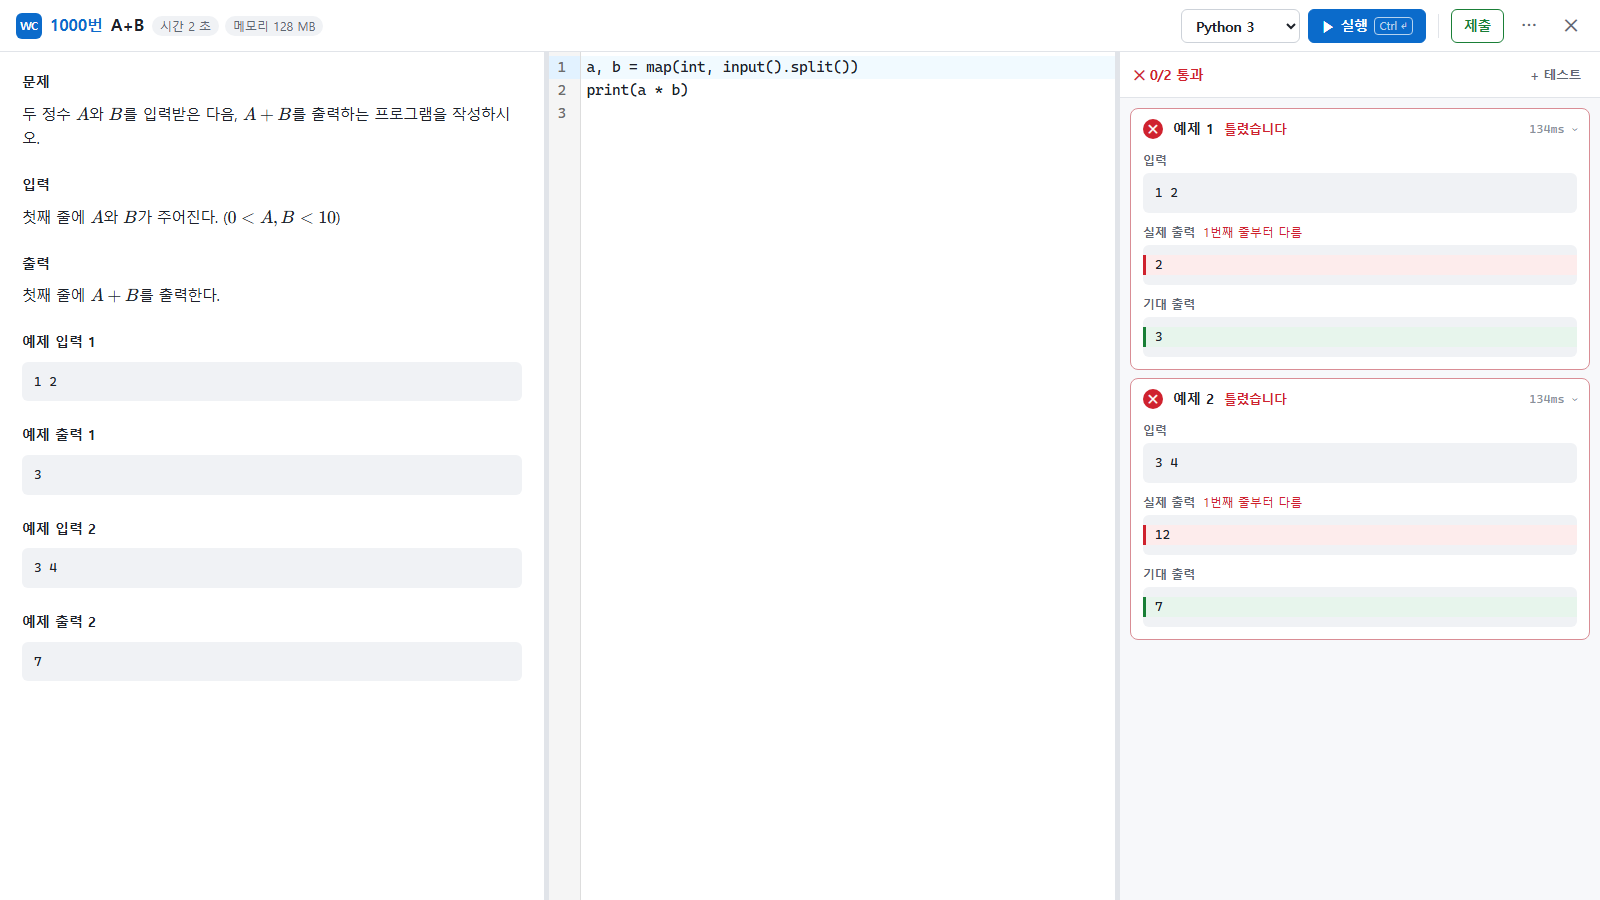
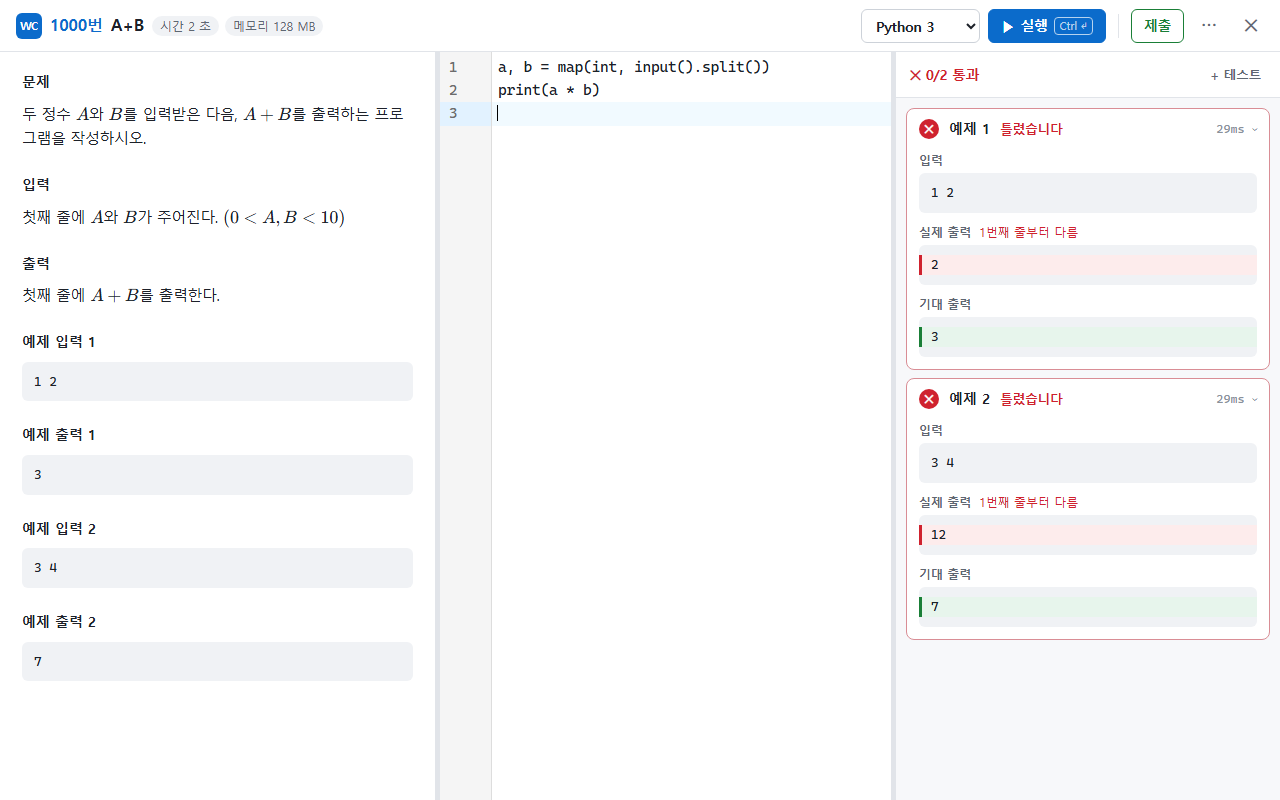
build: 웹 스토어 배포 준비 (clang 리소스 gzip, 패키지 스크립트, 등록 자료)
- 큰 컴파일러 리소스(llvm.core.wasm, llvm-resources.tar, 예외 지원 libc++)를
  gzip으로 담고 컴파일 워커가 풀어 씀. 설치 용량 137MB → 57MB,
  첫 컴파일 워커 시작이 약 80ms 늘어남
- npm run package: dist를 release/web-coder-<버전>.zip으로 묶음 (외부 도구 없음)
- docs/store: 개인정보처리방침, 등록 문구와 권한 사유, 1280×800 스크린샷
- README 스크린샷 일부를 현재 UI로 교체
- TS 기본 lib에 없는 WebAssembly.Exception 타입 선언 추가 (typecheck 오류 수정)

diff --git a/tools/package.ts b/tools/package.ts
@@ -1,0 +1,82 @@
+// 웹 스토어에 올릴 zip을 만듭니다. `npm run package` (빌드 후 release/web-coder-<버전>.zip)
+// 외부 도구 없이 동작하도록 zip(deflate)을 직접 씁니다. 파일은 모두 4GB보다 작아 ZIP64는 필요 없습니다.
+import { mkdir, readFile, readdir, writeFile } from 'node:fs/promises';
+import { crc32, deflateRawSync } from 'node:zlib';
+
+const root = 'dist';
+const { version } = JSON.parse(await readFile(`${root}/manifest.json`, 'utf8')) as {
+    version: string;
+};
+
+const listFiles = async (dir: string): Promise<string[]> => {
+    const entries = await readdir(dir, { withFileTypes: true });
+    const files = await Promise.all(
+        entries.map((entry) => {
+            const path = `${dir}/${entry.name}`;
+            return entry.isDirectory() ? listFiles(path) : [path];
+        })
+    );
+    return files.flat().sort();
+};
+
+// 이미 압축된 파일은 다시 압축하지 않고 그대로 담습니다.
+const STORED = /\.(gz|png|jpe?g|woff2?)$/;
+// 1980-01-01 00:00 (DOS 시간). 빌드할 때마다 같은 zip이 나오도록 고정합니다.
+const DOS_TIME = 0;
+const DOS_DATE = (0 << 9) | (1 << 5) | 1;
+
+const local: Buffer[] = [];
+const central: Buffer[] = [];
+let offset = 0;
+const files = await listFiles(root);
+for (const path of files) {
+    const name = Buffer.from(path.slice(root.length + 1), 'utf8');
+    const data = await readFile(path);
+    const store = STORED.test(path);
+    const body = store ? data : deflateRawSync(data, { level: 9 });
+    const crc = crc32(data);
+
+    const header = Buffer.alloc(30);
+    header.writeUInt32LE(0x04034b50, 0);
+    header.writeUInt16LE(20, 4); // 필요한 버전
+    header.writeUInt16LE(0x0800, 6); // 파일 이름은 UTF-8
+    header.writeUInt16LE(store ? 0 : 8, 8);
+    header.writeUInt16LE(DOS_TIME, 10);
+    header.writeUInt16LE(DOS_DATE, 12);
+    header.writeUInt32LE(crc, 14);
+    header.writeUInt32LE(body.length, 18);
+    header.writeUInt32LE(data.length, 22);
+    header.writeUInt16LE(name.length, 26);
+    local.push(header, name, body);
+
+    const entry = Buffer.alloc(46);
+    entry.writeUInt32LE(0x02014b50, 0);
+    entry.writeUInt16LE(20, 4);
+    entry.writeUInt16LE(20, 6);
+    entry.writeUInt16LE(0x0800, 8);
+    entry.writeUInt16LE(store ? 0 : 8, 10);
+    entry.writeUInt16LE(DOS_TIME, 12);
+    entry.writeUInt16LE(DOS_DATE, 14);
+    entry.writeUInt32LE(crc, 16);
+    entry.writeUInt32LE(body.length, 20);
+    entry.writeUInt32LE(data.length, 24);
+    entry.writeUInt16LE(name.length, 28);
+    entry.writeUInt32LE(offset, 42);
+    central.push(entry, name);
+
+    offset += header.length + name.length + body.length;
+}
+
+const centralSize = central.reduce((sum, b) => sum + b.length, 0);
+const end = Buffer.alloc(22);
+end.writeUInt32LE(0x06054b50, 0);
+end.writeUInt16LE(files.length, 8);
+end.writeUInt16LE(files.length, 10);
+end.writeUInt32LE(centralSize, 12);
+end.writeUInt32LE(offset, 16);
+
+await mkdir('release', { recursive: true });
+const out = `release/web-coder-${version}.zip`;
+const zip = Buffer.concat([...local, ...central, end]);
+await writeFile(out, zip);
+console.log(`${out} (${files.length}개 파일, ${(zip.length / 1024 / 1024).toFixed(1)}MB)`);

diff --git a/build.ts b/build.ts
@@ -1,6 +1,9 @@
 // 확장 빌드 스크립트. `node build.ts` (Node 내장 TS 실행)로 돌립니다.
 import * as esbuild from 'esbuild';
+import { createReadStream, createWriteStream } from 'node:fs';
 import { cp, mkdir, readFile, readdir, rm, writeFile } from 'node:fs/promises';
+import { pipeline } from 'node:stream/promises';
+import { createGzip } from 'node:zlib';
 
 const watch = process.argv.includes('--watch');
 const outdir = 'dist';
@@ -10,6 +13,14 @@ const clangPkg = JSON.parse(await readFile('node_modules/@yowasp/clang/package.j
     version: string;
 };
 const YOWASP_GEN = 'node_modules/@yowasp/clang/gen';
+
+/** 설치 용량을 줄이려고 gzip으로 담는 큰 리소스 (dist 기준 경로). 컴파일 워커의 gz-fetch.ts가 풀어 씁니다. */
+const GZIP_ASSETS = [
+    'clang/llvm.core.wasm',
+    'clang/llvm-resources.tar',
+    'clang-eh/libc++.a',
+    'clang-eh/libc++abi.a',
+];
 
 const manifest = {
     manifest_version: 3,
@@ -117,7 +128,10 @@ const entries: esbuild.BuildOptions[] = [
         // YoWASP 번들은 import.meta.url 기준으로 리소스를 찾으므로 ESM 모듈 워커로 dist/clang/에 둡니다.
         entryPoints: { 'clang/compiler-worker': 'src/runner/compiler-worker.ts' },
         format: 'esm',
-        define: { COMPILER_VERSION: JSON.stringify(clangPkg.version) },
+        define: {
+            COMPILER_VERSION: JSON.stringify(clangPkg.version),
+            GZIP_ASSETS: JSON.stringify(GZIP_ASSETS),
+        },
     },
     {
         // node.js 인텔리센스: TypeScript 언어 서비스. Node 전용 분기의 require는 브라우저에서 실행되지 않습니다.
@@ -174,6 +188,19 @@ const buildJavaIndexFile = async () => {
     await writeFile(`${outdir}/intel/java-index.json`, JSON.stringify(buildJavaIndex(entries)));
 };
 
+const gzipAssets = () =>
+    Promise.all(
+        GZIP_ASSETS.map(async (path) => {
+            const file = `${outdir}/${path}`;
+            await pipeline(
+                createReadStream(file),
+                createGzip({ level: 9 }),
+                createWriteStream(`${file}.gz`)
+            );
+            await rm(file);
+        })
+    );
+
 const copyStatic = async () => {
     await mkdir(`${outdir}/wasm`, { recursive: true });
     await cp('public', outdir, { recursive: true });
@@ -193,7 +220,7 @@ const copyStatic = async () => {
         'node_modules/@typefox/pyright-browser/dist/pyright.worker.js.LICENSE.txt',
         `${outdir}/intel/pyright.worker.js.LICENSE.txt`
     );
-    await Promise.all([buildTsLibs(), buildTypeshed(), buildJavaIndexFile()]);
+    await Promise.all([buildTsLibs(), buildTypeshed(), buildJavaIndexFile(), gzipAssets()]);
     await writeFile(`${outdir}/manifest.json`, JSON.stringify(manifest, null, 2));
 };
 

diff --git a/src/runner/gz-fetch.ts b/src/runner/gz-fetch.ts
@@ -1,0 +1,20 @@
+// 큰 컴파일러 리소스는 설치 용량을 줄이려고 gzip으로 담습니다. (build.ts의 GZIP_ASSETS)
+// YoWASP 번들은 불러올 때 globalThis.fetch를 붙잡아 두므로, 이 모듈을 YoWASP보다 먼저 import해야 합니다.
+// 원래 이름으로 요청하면 .gz를 받아 풀어서 돌려줍니다. (첫 실행에 약 80ms 더 걸림)
+
+declare const GZIP_ASSETS: string[];
+
+const gzipped = new Set(GZIP_ASSETS.map((path) => new URL(`/${path}`, self.location.origin).href));
+const originalFetch = globalThis.fetch.bind(globalThis);
+
+globalThis.fetch = async (input: RequestInfo | URL, init?: RequestInit) => {
+    const url = input instanceof Request ? input.url : new URL(input, self.location.href).href;
+    if (!gzipped.has(url)) return originalFetch(input, init);
+    const response = await originalFetch(`${url}.gz`, init);
+    if (!response.ok || !response.body) return response;
+    return new Response(response.body.pipeThrough(new DecompressionStream('gzip')), {
+        headers: {
+            'content-type': url.endsWith('.wasm') ? 'application/wasm' : 'application/octet-stream',
+        },
+    });
+};

diff --git a/src/env.d.ts b/src/env.d.ts
@@ -11,3 +11,16 @@ declare module 'worker-source:*' {
     const source: string;
     export default source;
 }
+
+// WebAssembly 예외 처리(wasm-eh) 타입: TS 기본 lib에 아직 없습니다.
+declare namespace WebAssembly {
+    class Tag {
+        constructor(type: { parameters: string[] });
+    }
+    class Exception {
+        constructor(tag: Tag, payload: unknown[], options?: { traceStack?: boolean });
+        is(tag: Tag): boolean;
+        getArg(tag: Tag, index: number): unknown;
+        readonly stack?: string;
+    }
+}

diff --git a/src/runner/compiler-worker.ts b/src/runner/compiler-worker.ts
@@ -1,5 +1,6 @@
 // C++ 컴파일 워커 (모듈 워커). YoWASP clang(LLVM 22)으로 wasm32-wasip1 프로그램을 만듭니다.
 // 이 파일은 dist/clang/에 번들되고, YoWASP 리소스(llvm.core.wasm 등)도 같은 폴더에 둡니다.
+import './gz-fetch.ts'; // YoWASP보다 먼저 와야 합니다.
 import { commands } from '@yowasp/clang';
 import {
     BITS_STDCXX,

diff --git a/docs/store/listing.md b/docs/store/listing.md
@@ -1,0 +1,64 @@
+# Chrome 웹 스토어 등록 자료
+
+## 패키지
+
+```powershell
+npm run package
+```
+
+`node build.ts`로 빌드한 뒤 `release/web-coder-<버전>.zip`을 만듭니다. 이 zip을 개발자 대시보드에 올립니다.
+설치 후 용량은 약 57MB입니다. 큰 컴파일러 파일은 gzip으로 담고, 처음 컴파일할 때 풀어 씁니다.
+
+## 기본 정보
+
+- 이름: 웹 코더
+- 요약 (132자 이하): 백준 제출 페이지에서 바로 실행하고 제출하는 로컬 코드 에디터
+- 카테고리: 개발자 도구
+- 언어: 한국어
+
+## 상세 설명
+
+백준 온라인 저지(acmicpc.net)에서 문제를 보면서 코드를 쓰고, 예제를 바로 돌려 보고, 그대로 제출하세요.
+
+■ 내 컴퓨터에서 바로 실행
+
+- C++ (clang, C++98~C++26), Python 3 / PyPy3, node.js, Java를 브라우저 안에서 컴파일하고 실행합니다.
+- 서버로 코드를 보내지 않으니 빠르고, 코드가 밖으로 나가지 않습니다.
+- 예제 입출력을 자동으로 불러와 한 번에 채점하고, 틀린 줄을 표시해 줍니다.
+- 직접 만든 테스트 케이스를 추가할 수 있습니다.
+
+■ 언어별 자동 완성과 오류 표시
+
+- C++: clang 기반 멤버 자동 완성과 실시간 컴파일 오류
+- Python: Pyright 기반 자동 완성, 타입 오류, 오타 표시
+- node.js: TypeScript 언어 서비스 기반 자동 완성
+- Java: JDK 클래스 자동 완성, 생성자·메서드 시그니처 힌트, 컴파일 오류
+
+■ 그대로 제출
+
+- 문제 메뉴의 "웹 코더로 제출" 탭을 누르면 에디터가 열립니다.
+- 제출 버튼을 누르면 백준 제출 폼으로 제출합니다.
+
+■ 편의 기능
+
+- 에디터 테마 43종, 다크 모드, 글자 크기 조절
+- 문제별·언어별 코드 자동 저장
+- 깊은 재귀와 C++ 예외 지원
+
+## 스크린샷 (1280×800)
+
+`docs/store/` 안의 파일을 순서대로 올립니다.
+
+1. `1-pass.png`: 예제 통과
+2. `2-diff.png`: 틀린 출력 비교
+3. `3-intellisense.png`: C++ 자동 완성
+4. `4-diagnostics.png`: Python 오류 표시
+
+## 개인정보 보호 탭
+
+- 단일 목적: 백준 온라인 저지에서 코드를 작성하고 로컬에서 실행한 뒤 제출하도록 돕는 에디터를 제공합니다.
+- `storage` 권한 사유: 문제별로 작성 중인 코드, 사용자가 추가한 테스트 케이스, 문제 예제 캐시, 에디터 설정을 브라우저에 저장합니다.
+- 호스트 권한 사유 (acmicpc.net): 백준 문제 페이지에 "웹 코더로 제출" 탭을, 제출 페이지에 에디터를 표시하고, 사용자가 제출을 누르면 백준 제출 폼에 코드를 채워 제출합니다.
+- 원격 코드 사용: 아니요. 컴파일러와 런타임(WebAssembly)은 모두 패키지에 포함되어 있습니다.
+- 데이터 사용: 어떤 사용자 데이터도 수집하거나 전송하지 않습니다. (모든 항목 체크하지 않음)
+- 개인정보처리방침 URL: `docs/store/privacy.md`를 공개 URL로 올린 뒤 그 주소를 적습니다. (예: GitHub 저장소의 파일 주소)

diff --git a/docs/store/privacy.md b/docs/store/privacy.md
@@ -1,0 +1,37 @@
+# 웹 코더 개인정보처리방침
+
+최종 수정: 2026-11-23
+
+웹 코더(이하 "확장")는 백준 온라인 저지(acmicpc.net)의 문제 페이지와 제출 페이지에서 코드를 작성하고, 내 컴퓨터 안에서 예제를 실행해 보고, 백준 제출 폼으로 제출하도록 돕는 Chrome 확장 프로그램입니다.
+
+## 수집하는 정보
+
+확장은 개인정보를 수집하지 않으며, 개발자나 제3자의 서버로 어떤 데이터도 보내지 않습니다.
+
+## 브라우저 안에만 저장하는 정보
+
+다음 정보는 `chrome.storage.local`(이 브라우저의 확장 저장소)에만 저장되고 밖으로 나가지 않습니다.
+
+- 문제별·언어별로 작성 중인 코드
+- 직접 추가한 테스트 케이스
+- 문제 본문과 예제 (문제 페이지를 열 때 화면에 이미 받은 내용을 보관)
+- 에디터 설정 (언어, 테마, 글자 크기, 패널 크기 등)
+
+또 C++ 컴파일 속도를 높이려고 미리 컴파일한 헤더를 브라우저의 IndexedDB에 보관합니다.
+
+이 정보는 확장을 삭제하면 함께 지워집니다.
+
+## 네트워크 사용
+
+- 코드 실행, 컴파일, 자동 완성은 확장에 포함된 WebAssembly 런타임으로 모두 내 컴퓨터 안에서 처리합니다. 코드를 외부 서버로 보내 실행하지 않습니다.
+- 확장이 직접 요청하는 곳은 백준(acmicpc.net)뿐입니다. 문제 본문이 캐시에 없을 때 문제 페이지를 다시 읽어 옵니다.
+- 사용자가 "제출"을 누르면 백준이 제공하는 제출 폼에 코드를 채워 백준에 제출합니다. 이것은 사용자가 백준에서 직접 제출하는 것과 같으며, 백준의 개인정보처리방침을 따릅니다.
+
+## 권한
+
+- `storage`: 위의 코드, 테스트, 설정을 저장합니다.
+- acmicpc.net 페이지 접근: 문제 페이지와 제출 페이지에 에디터와 "웹 코더로 제출" 탭을 붙입니다.
+
+## 문의
+
+GitHub 저장소의 이슈로 문의해 주세요.
